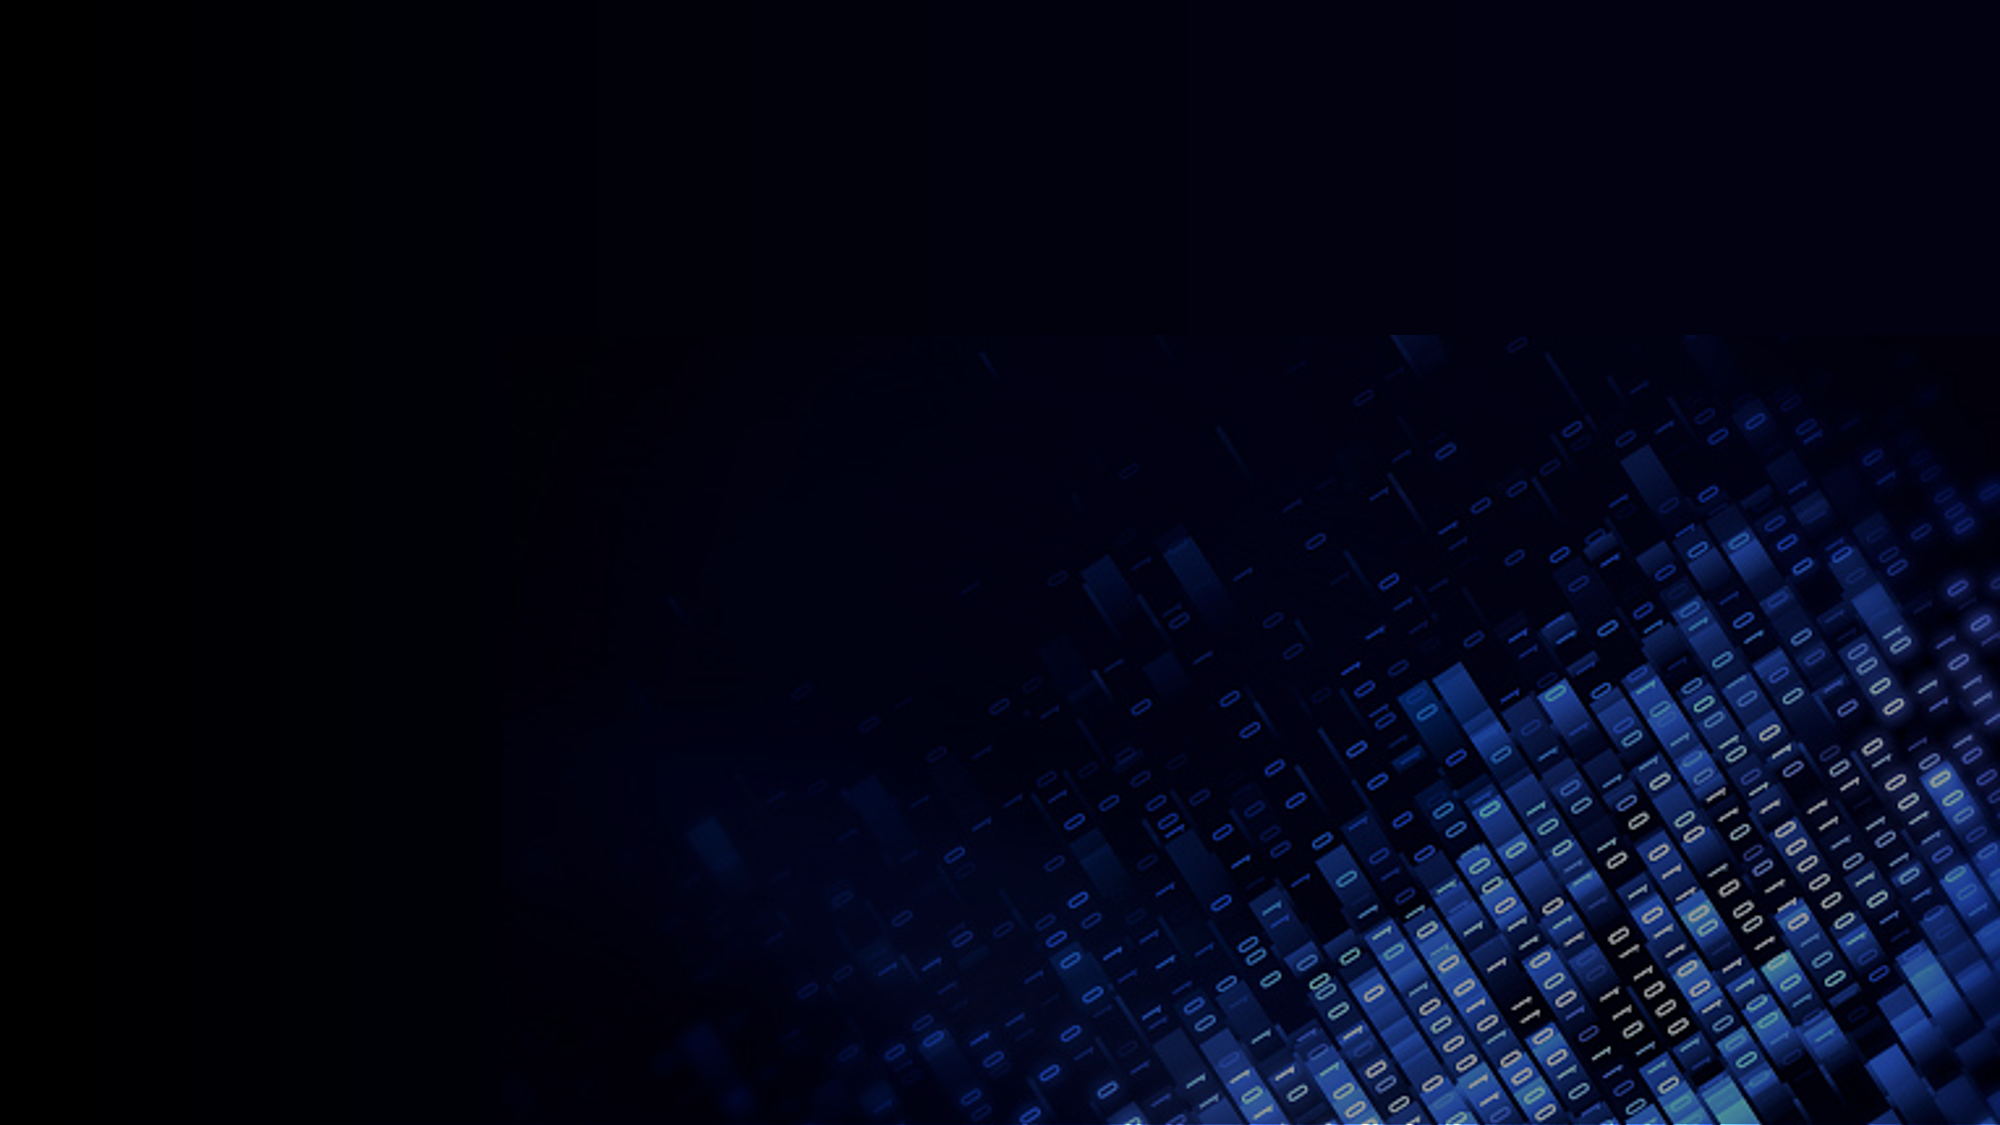
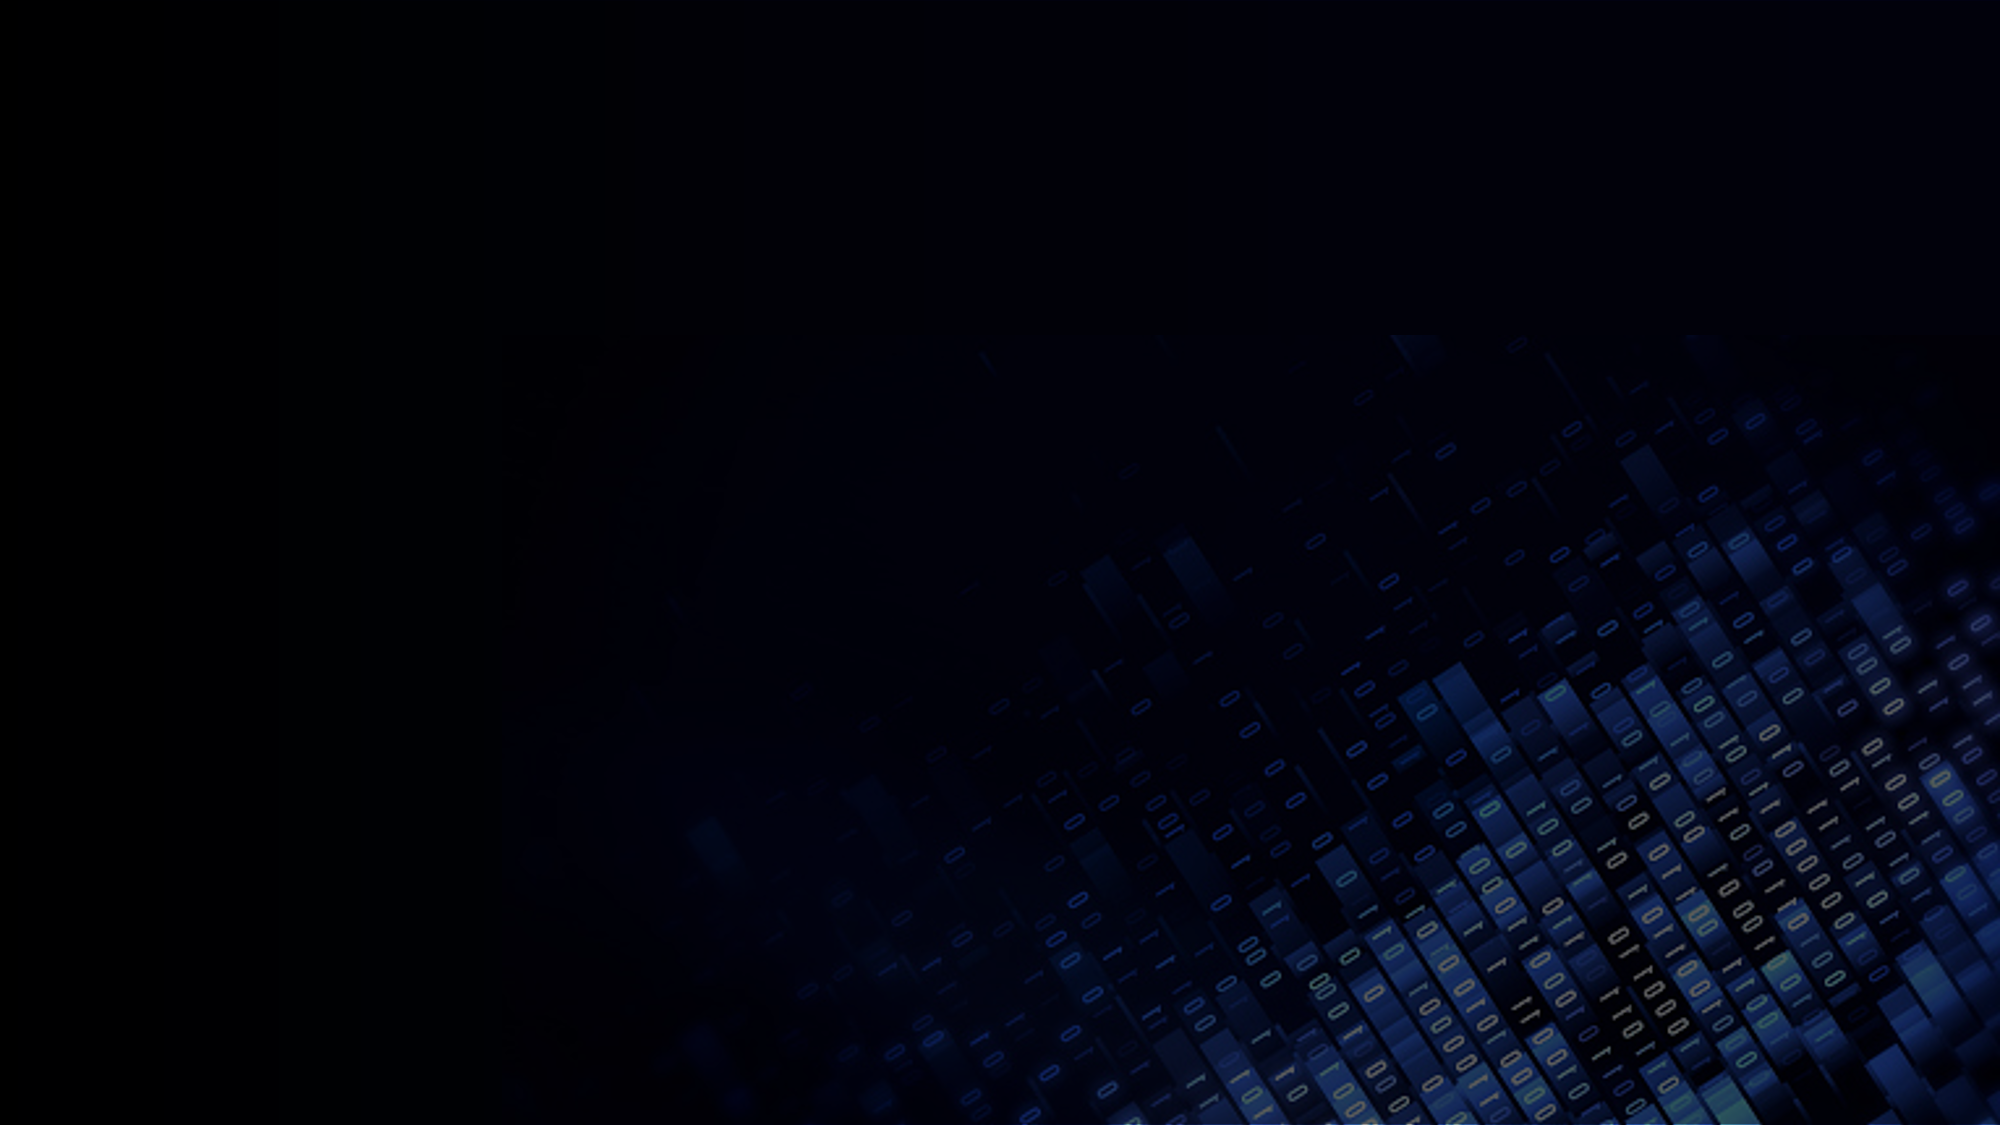
#82 Design : 메인 페이지 배경 수정

diff --git a/src/pages/Main.js b/src/pages/Main.js
@@ -3,17 +3,23 @@ import { useNavigate } from 'react-router-dom'
 import styled from '@emotion/styled'
 
 import stbg from './studentCom/userCom/image/STBG.png'
+import pfbg from './studentCom/userCom/image/PFBG.png'
+// import pfbg from './proffessorCom/image/bg01.png'
 
 function Main() {
+  const [proBG,setProBG] = useState(false);
   const [stuStyle, setStuStyle] = useState({})
   const [butStyle, setButStyle] = useState({})
   const navigate = useNavigate()
   const proClick = () => {
-    setStuStyle({ transform: 'translate(50%)', transition: '1s' })
+    setStuStyle({ transform: 'translate(50%)', transition: '1s',})
     setButStyle({ opacity: '0', transition: '0.5s' })
 
     setTimeout(function () {
-      navigate('/assignments')
+      setProBG(true)
+      setTimeout(function () {
+        navigate('/assignments')
+      }, 500)
     }, 1000)
   }
   const stuClick = () => {
@@ -21,7 +27,10 @@ function Main() {
       transform: 'translate(-50%)',
       transition: '1s',
     })
-    setButStyle({ opacity: '0', transition: '0.5s' })
+    setButStyle({ 
+      opacity: '0',
+      transition: '0.5s' 
+    })
 
     setTimeout(function () {
       navigate('/test')
@@ -30,13 +39,18 @@ function Main() {
 
   return (
     <div>
-      <ProButton style={butStyle} onClick={() => proClick()}>
+      <ProButton style={butStyle} onClick={() => {
+        proClick()
+      }}>
         교수용
       </ProButton>
       <StuButton style={butStyle} onClick={() => stuClick()}>
         학생용
       </StuButton>
-      <ProDiv></ProDiv>
+      <ProDiv>
+        <div style={{width:'100%',height:'100%',background:"#000000", opacity: proBG?0.2:0,
+            transition: 'opacity 0.3s'}}></div>
+            </ProDiv>
       <StuDiv style={stuStyle}></StuDiv>
     </div>
   )
@@ -55,7 +69,7 @@ const ProButton = styled.button`
   position: absolute;
   top: 45%;
   left: 20%;
-  z-index: 2;
+  z-index: 3;
   &:hover {
     background-color: #00000077;
     transition: 1s;
@@ -72,27 +86,26 @@ const StuButton = styled.button`
   position: absolute;
   top: 45%;
   left: 70%;
-  z-index: 2;
+  z-index: 3;
   &:hover {
     background-color: #00000077;
     transition: 1s;
   }
 `
 const ProDiv = styled.div`
+  z-index : 1;
   width: 100%;
   height: 100vh;
-  background-color: blueviolet;
+  background-image: url(${pfbg});
+  backgroun-size : cover;
   position: absolute;
 `
 const StuDiv = styled.div`
   width: 100%;
   height: 100vh;
   left: 50%;
-
   background-image: url(${stbg});
   background-size: cover;
-
-  //background-color: greenyellow;
   position: absolute;
   z-index: 1;
 `
